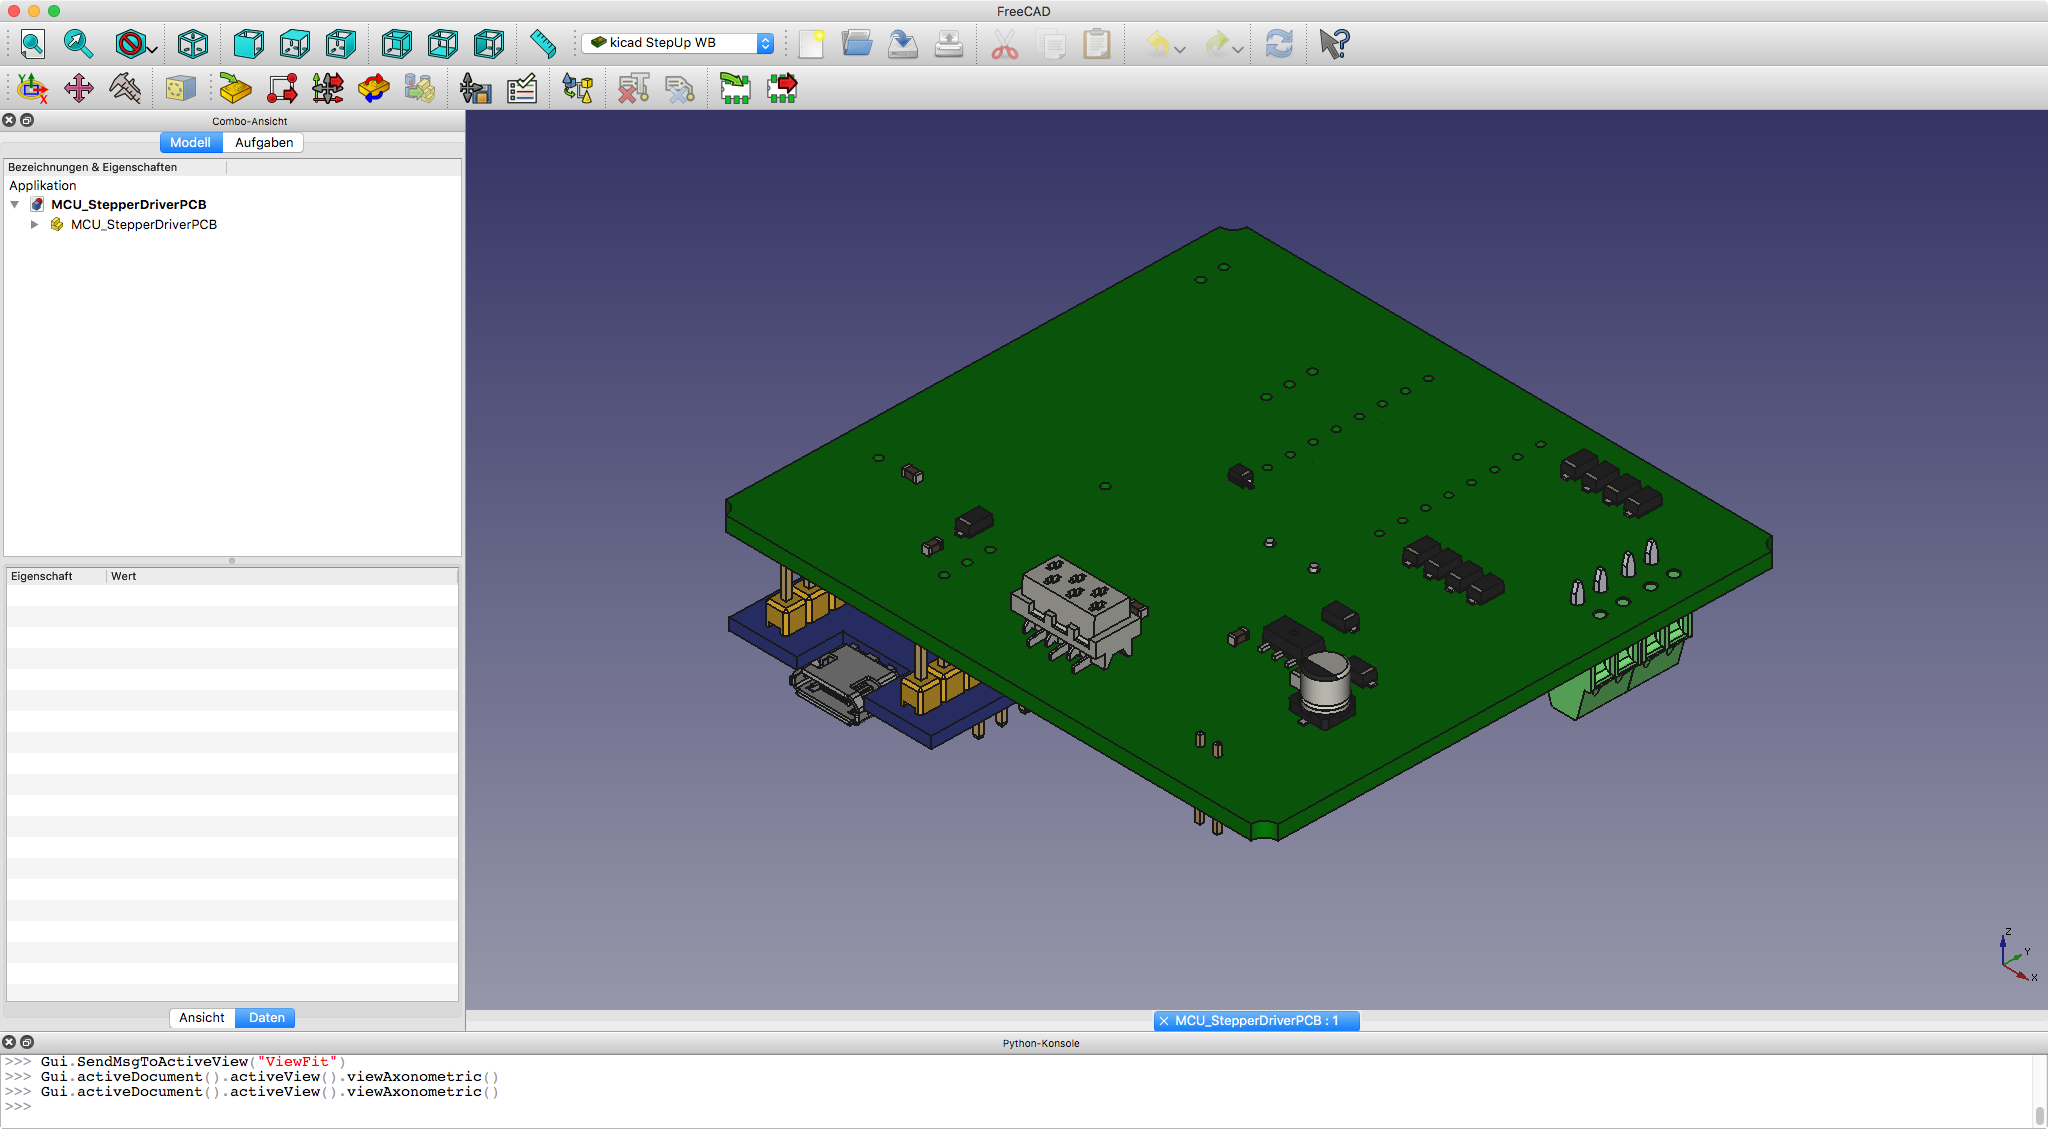
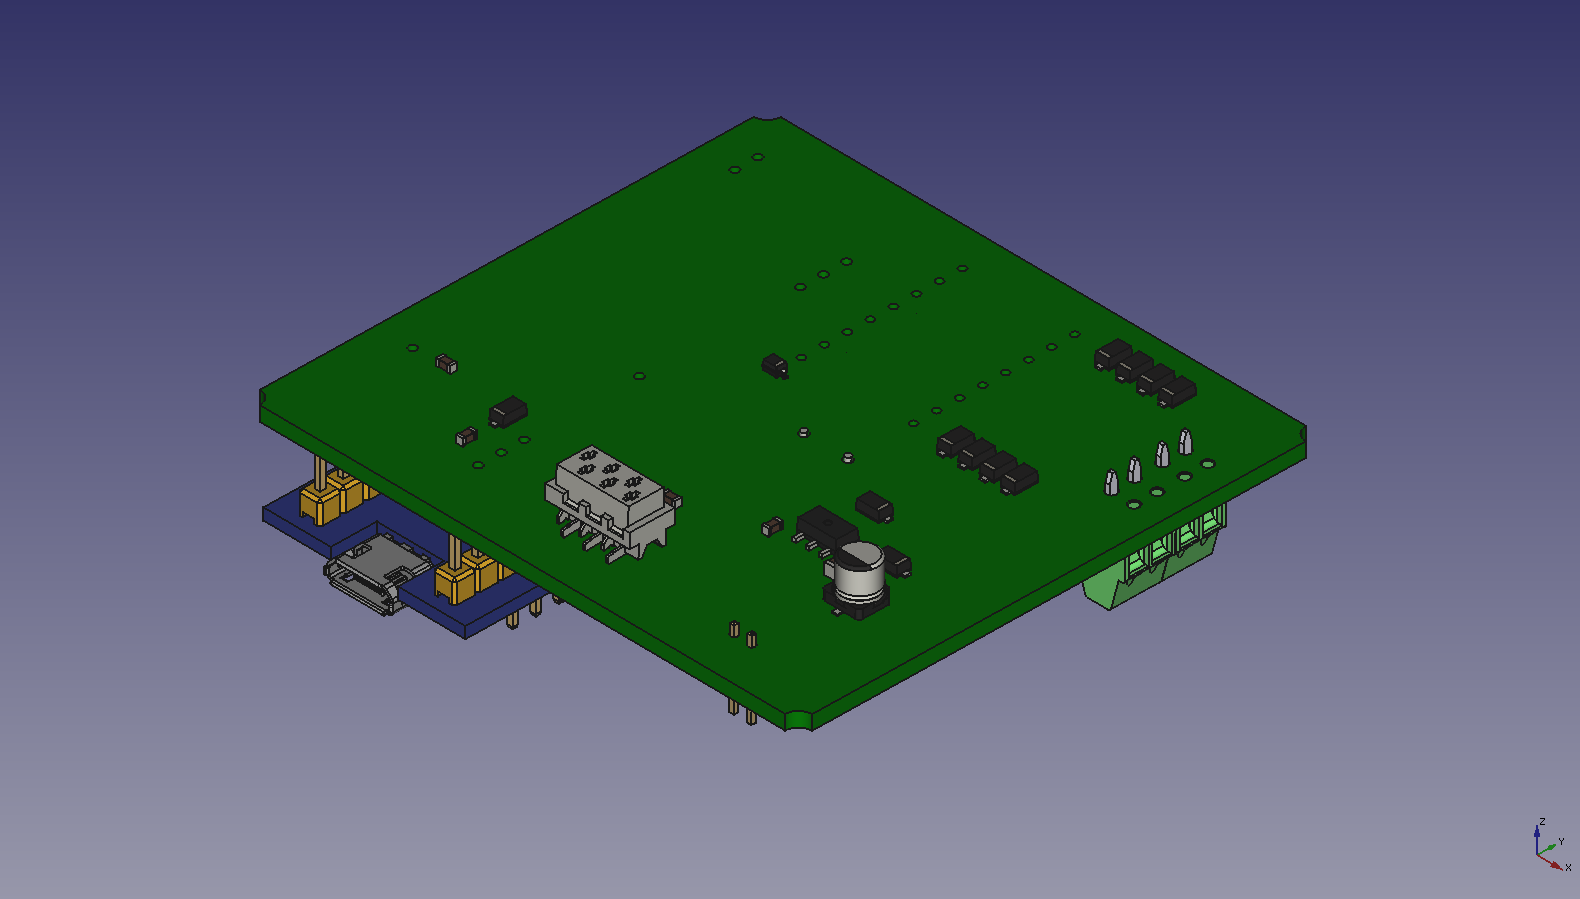
Added readme files for the subprojets. Modified some images.

diff --git a/Sharp_DistanceSensor/MCAD/README.md b/Sharp_DistanceSensor/MCAD/README.md
@@ -1,4 +1,7 @@
 # MCAD Files
+
+![](MCAD/Images/SharpDistanceSensorAssembly.png)
+
 Designed with [FreeCAD](https://www.freecadweb.org)
 # Credits
 External 3D models:
@@ -6,4 +9,3 @@ External 3D models:
 * [STM32 "BluePill" module](https://grabcad.com/library/stm32f103c8t6-blue-pill-board-1)
 * [Sharp Distance Sensor](https://grabcad.com/library/sharp-gp2y0a21yk0f)
 * [NEMA 17 Stepper model](https://github.com/FreeCAD/FreeCAD-library/blob/master/Electrical%20Parts/Motors/NEMA-17_Stepper_Motor_47mm.step)
-

diff --git a/Sharp_DistanceSensor/ECAD/README.md b/Sharp_DistanceSensor/ECAD/README.md
@@ -1,0 +1,9 @@
+# ECAD Files
+
+![](../MCAD/Images/MCU_StepperDriverPCB_Top.png)
+
+Designed with [KiCad EDA](http://kicad-pcb.org)
+# Credits
+External 3D models:
+* [TMC2100 SilentStepStick PCB](https://grabcad.com/library/tmc21x0-silentstepstick-board-1)
+* [STM32 "BluePill" module](https://grabcad.com/library/stm32f103c8t6-blue-pill-board-1)

diff --git a/Sharp_DistanceSensor/README.md b/Sharp_DistanceSensor/README.md
@@ -1,2 +1,8 @@
 Design files (HW/SW/MECH) for a motorized distance sensor to perform 360° scans.
+
 ![](MCAD/Images/SharpDistanceSensorAssembly.png)
+
+Designed using:
+* [FreeCAD](https://www.freecadweb.org)
+* [KiCad EDA](http://kicad-pcb.org)
+* [System Workbench for STM32](http://www.openstm32.org/HomePage)
